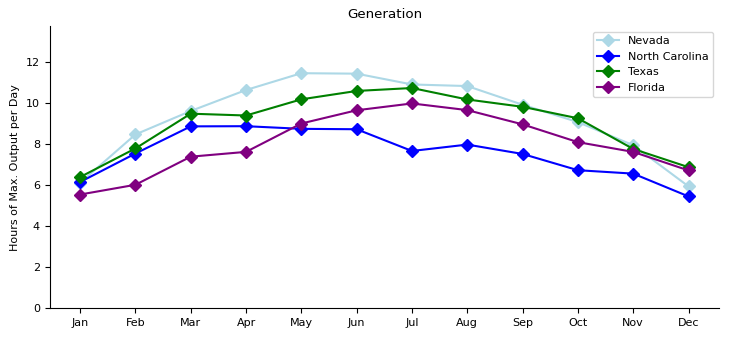
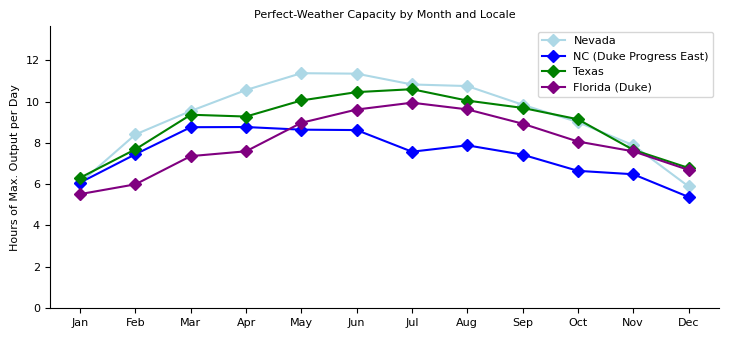
minor tweaks

diff --git a/post4_solar.py b/post4_solar.py
@@ -30,7 +30,19 @@ def keyGenerationStats(hourlyValues):
     return stats
 
 
+def prepChart(dims):
+    fig, ax = plt.subplots(figsize = dims)
+    plt.rcParams.update({'font.size': 8})
+    ax.spines["right"].set_visible(False)
+    ax.spines["top"].set_visible(False)
+
+    return fig, ax
+
+
+
 def dailyGenerationChart(eiag: EIAGeneration, starts: List[datetime], ends: List[datetime], plot_titles: List[str], path: str):
+    print("daily generation chart, hello")
+    
     plots = len(starts)
     fig, axes = plt.subplots(nrows = 1, ncols = plots, sharey = True, figsize = (8, 3))
 
@@ -93,6 +105,8 @@ if __name__ == "__main__":
 
     # read full year data for NV
     eiag = getEIAGeneration(BAname, start, end)
+
+
 
     # chart 1: every day vs. top 3 days in each month
     daily_starts = [datetime(2022, 1, 1)]
@@ -181,10 +195,11 @@ if __name__ == "__main__":
                                 height_scale = 1.25)
 
  # chart 5: HTML table for June and December Data
-    max_hour = max([max(l) for l in y_values_list_top])
+    
+    max_hour = eiag.maxOutput(3)
 
  
-    for month in [6, 12]:
+    for month in [3, 6, 12]:
         capacity_stats = keyGenerationStats(y_values_list_top[month-1])
         active_hours = sum([1 if g >= 0.1*capacity_stats["maxGen"] else 0 for g in y_values_list_top[month-1]])
 
@@ -201,7 +216,7 @@ if __name__ == "__main__":
 
     row_html = ["<tr>\n"]
     row_html.append('<th scope="col" style="background-color: #D6EEEE">24h of Max. Summer Sun</th>/n')
-    row_html.append(f'<td>{24*max_hour:,.0f}</td> <td>{max_hour:,.0f}</td><td>-</td><td>-</td><td>24</td>')
+    row_html.append(f'<td>{24h x Max. Physical Output:,.0f}</td> <td>{max_hour:,.0f}</td><td>-</td><td>-</td><td>24</td>')
     row_html.append('</tr>\n')
     print("".join(row_html))
 
@@ -232,59 +247,121 @@ if __name__ == "__main__":
     # loop over multiple states
 
     BAs = ["NVPower", "DukeEast", "ERCOT", "DukeFL"]
-    States = ["Nevada", "North Carolina", "Texas", "Florida"]
+    States = ["Nevada", "NC (Duke Progress East)", "Texas", "Florida (Duke)"]
 
     nMonths = 12*(end.year - start.year) + (end.month - start.month)
     month_names = [(start + relativedelta(months = month)).strftime("%b") for month in range(nMonths)]
 
     absolute_max = dict()
+    capacities_lists = dict()
+    actuals_lists = dict()
+    
     capacity_by_month = dict()
     actual_by_month = dict()
-
-    days_quality = dict()
-    # 90+, 60-90, 30-60, 1-30
-
-    daily_percent_full = dict()
+    total_capacity = dict()
+    total_actual = dict()
 
     for BA in BAs:
-        absolute_max[BA] = 0
+
+        eiag = getEIAGeneration(BA, start, end)
+        
+        absolute_max[BA] = eiag.maxOutput(3)
+
         capacity_by_month[BA] = []
         actual_by_month[BA] = []
 
-        actuals_lists = list()
-        capacities_lists = list()
-        
+        actuals_lists[BA] = list()
+        capacities_lists[BA] = list()
+
         #read data for this state
-        eiag = getEIAGeneration(BA, start, end)
 
         for month in range(nMonths):
-#            print("month " + str(month))
             s = start + relativedelta(months = month)
             e = s + relativedelta(months = +1)
             _, avgs = eiag.averageDayInPeriod(s, e)
             _, avgs_top = eiag.averageDayInPeriodFilteredHourly(s, e, 3)
-            actuals_lists.append(avgs)
-            capacities_lists.append(avgs_top)
-#            print("len of capacities_list" + str(len(capacities_lists)))
+            actuals_lists[BA].append(avgs)
+            capacities_lists[BA].append(avgs_top)
             
             if max(avgs_top) > absolute_max[BA]: absolute_max[BA] = max(avgs_top)
 
-        print("absolute max for " + BA + " " + str(absolute_max[BA]))
-        capacity_by_month[BA] = [sum(l)/absolute_max[BA] for l in capacities_lists]
+        print("\nMax. Physical Output for " + BA + " " + str("{:,.2f}".format(absolute_max[BA])))
+        capacity_by_month[BA] = [sum(l)/absolute_max[BA] for l in capacities_lists[BA]]
         print("capacity by month is:")
-        print(capacity_by_month[BA])
-        actual_by_month[BA] = [sum(l)/absolute_max[BA] for l in actuals_lists]
+        print(" ".join("{:.2f}".format(x) for x in capacity_by_month[BA]))
+
+        actual_by_month[BA] = [sum(l)/absolute_max[BA] for l in actuals_lists[BA]]
+        print("actual by month is:")
+        print(" ".join("{:.2f}".format(x) for x in actual_by_month[BA]))
+
+        total_capacity[BA] = sum([(capacity_by_month[BA])[month] * calendar.monthrange(start.year, month+1)[1] for month in range(12)])/365
+        total_actual[BA] = sum([(actual_by_month[BA])[month] * calendar.monthrange(start.year, month+1)[1] for month in range(12)])/365
+        
 
     MonthlyPlots.monthlyUsageLineChart(months,
                                        [capacity_by_month[BA] for BA in BAs],
                                        States,
                                        ["lightblue", "blue", "green", "purple"],
-                                       "Generation",
+                                       "Perfect-Weather Capacity by Month and Locale",
                                        f"post4/post4_multi_state.png",
                                        show_average = False,
                                        text_label_list = None,
                                        plottype = PlotType.OTHER,
                                        y_axis_label = "Hours of Max. Output per Day")
+
+
+    JUNE = 5 # June
+
+    normalized_hourlies = [(capacities_lists[BA])[JUNE]/max((capacities_lists[BA])[JUNE]) for BA in BAs]
+    above_75 = [f"{sum([1 if x >= 0.9 else 0 for x in normalized_hourly]):.2f}" for normalized_hourly in normalized_hourlies]
+    print("Hours generating at least 75% of max power:")
+    print(BAs, above_75)
+    
+    HourlyChart.hourlyLineChart(x_values,
+                                normalized_hourlies, 
+                                "Hourly Capacity in June (scaled to max.)",
+                                States,
+                                ["lightblue", "blue", "green", "purple"],
+                                f"post4/post4_multi_state_june_hours.png",
+                                title = None,
+                                x_axis_label = "Hour Starting (Standard Time)",
+                                annotate = None,
+                                ymax = None,
+                                series_styles = None,
+                                height_scale = 1.0)
+    
+
+
+    #ugh a bar chart
+    fig, ax = prepChart(dims = (7, 3.5))
+    plots = []
+    plots.append(ax.bar(States, [total_capacity[BA] for BA in BAs], label = "Capacity", color = "lightblue"))
+    #ax.bar_label(plots[-1], fmt = fmt_str, padding = 5)
+
+    plots.append(ax.bar(States, [total_actual[BA] for BA in BAs], label = "Actual (% of Capacity)", color = "slategray"))
+    ax.bar_label(plots[-1],
+                 labels = [f"{total_actual[BA]/total_capacity[BA]*100:.0f}%" for BA in BAs],
+                 padding = -15,
+                 color = "white",
+                 fontweight = "bold")
+
+    print(total_capacity)
+    print(total_actual)
+    
+                 
+    ax.set_ylim([0, 1.2*max(total_capacity.values())])
+    ax.set_ylabel("Avg. Hours of Max. Output per Day")
+    ax.legend(loc = "upper right")
+    fig.tight_layout(pad = 1.0)
+    #ax.set_title(title)
+    plt.savefig(f"post4/post4_multi_state_bar.png")
+    plt.show()
+    plt.close()
+
+
+    
+
+    
 
 
         

diff --git a/monthlyPlots.py b/monthlyPlots.py
@@ -19,7 +19,6 @@ class PlotType(Enum):
     OTHER = 2
 
 class MonthlyPlots:
-
     def monthlyUsageBarChart(x_values, y_values_list, y_axis_label, series_labels, series_colors, fmt_str, title, path,
                              show_y_axis = False):
 
@@ -46,7 +45,6 @@ class MonthlyPlots:
 
 #       ax.get_yaxis().set_visible(False)
 
-
         ax.legend(loc = "upper right")
 
         ax.set_title(title)
@@ -54,8 +52,6 @@ class MonthlyPlots:
         plt.show()
         plt.close()
         
-
-    
 
     def monthlyUsageLineChart(x_values,
                               y_values_list,
@@ -99,7 +95,7 @@ class MonthlyPlots:
             ax.set_ylabel(y_axis_label)
         
         if title is not None:
-            ax.set_title(title)
+            ax.set_title(title, fontsize = 8)
         
         plt.savefig(path)
         plt.show()

diff --git a/eiaGeneration.py b/eiaGeneration.py
@@ -67,6 +67,13 @@ class EIAGeneration:
         return (hour_N_highest_avg["Hour"].copy(), hour_N_highest_avg["Solar Generation (MWh)"])   
 
 
+    def maxOutput(self, N = 1):
+        top_N = self.df["Solar Generation (MWh)"].nlargest(n = N)
+        results = top_N.mean(numeric_only = True)
+        print(f"Max output N = {N}: {results:.1f}")
+        return results
+        
+
     def dailyTotalsDF(self, start: datetime, end: datetime):
         fil = self.df["Start Time"].apply(lambda d: start <= d and d < end)
         df_filtered = self.df[fil]

diff --git a/periodicCharts.py b/periodicCharts.py
@@ -24,8 +24,12 @@ class HourlyChart:
 
         ax.xaxis.set_ticks(np.arange(0, 24, 3))
         ax.xaxis.set_major_formatter(HourlyChart.format_time)
-        ax.yaxis.set_major_formatter(ticker.StrMethodFormatter("{x:,.0f}"))
 
+        if yrange[1] > 10:
+            ax.yaxis.set_major_formatter(ticker.StrMethodFormatter("{x:,.0f}"))
+        else:
+            ax.yaxis.set_major_formatter(ticker.StrMethodFormatter("{x:,.1f}"))
+        
         ax.spines["right"].set_visible(False)
         ax.spines["top"].set_visible(False)
 
